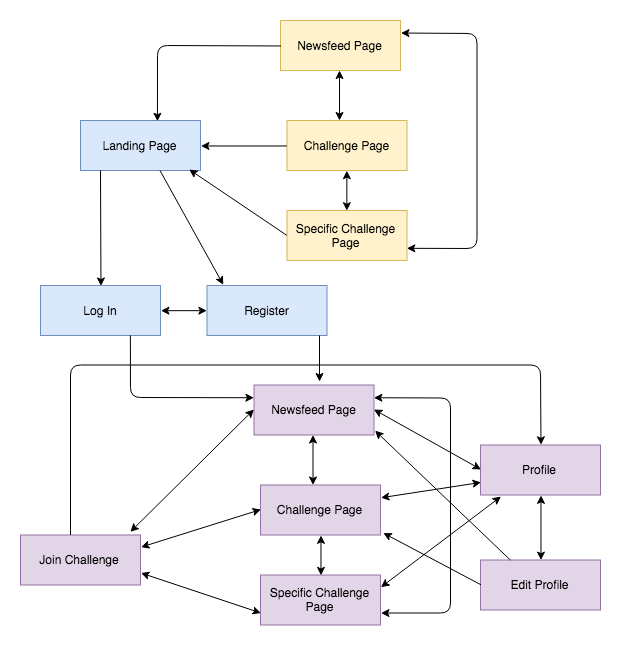
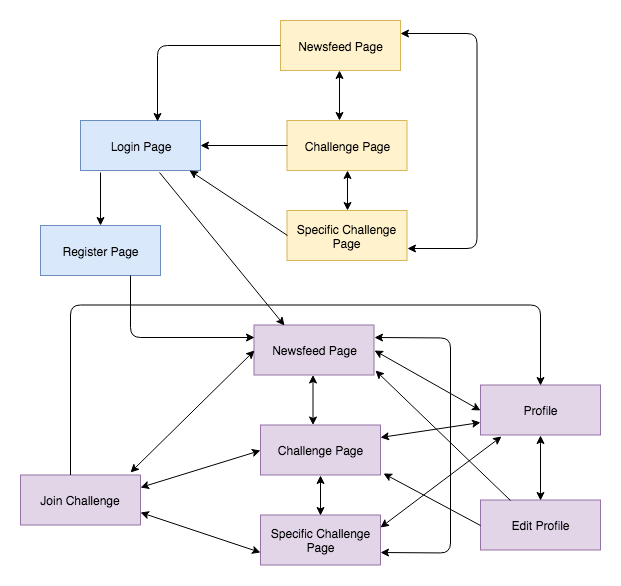
got rid of landing page in readme

diff --git a/README.md b/README.md
@@ -64,8 +64,6 @@
 ![require](docs/OneUpWorkflowDiagram.png)
 
 ### Wireframes
-#### Landing Page
-![require](docs/LandingPage.png)
 #### Login Page
 ![require](docs/LoginPage.png)
 #### Register Page
@@ -82,7 +80,6 @@
 ### Database Entity Relationship Diagram
 ![require](docs/DatabaseEntityRelationshipDiagram.png)
   
-  * Database Entity Relationship Diagrams
   * Data Flow Diagram
   * OO design documentation
 
